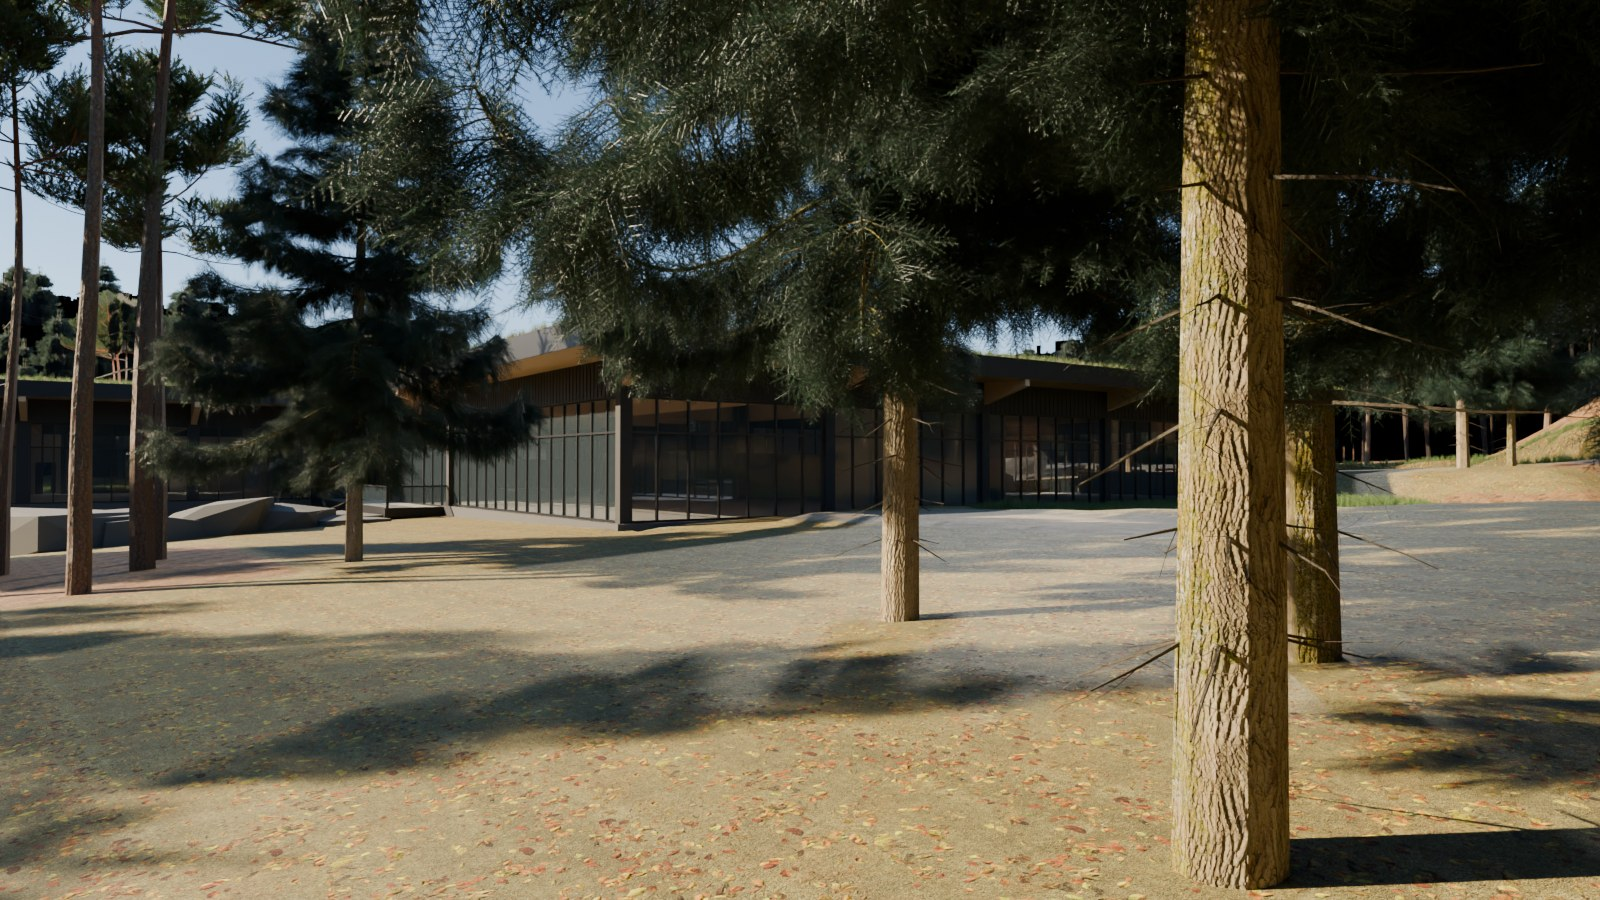
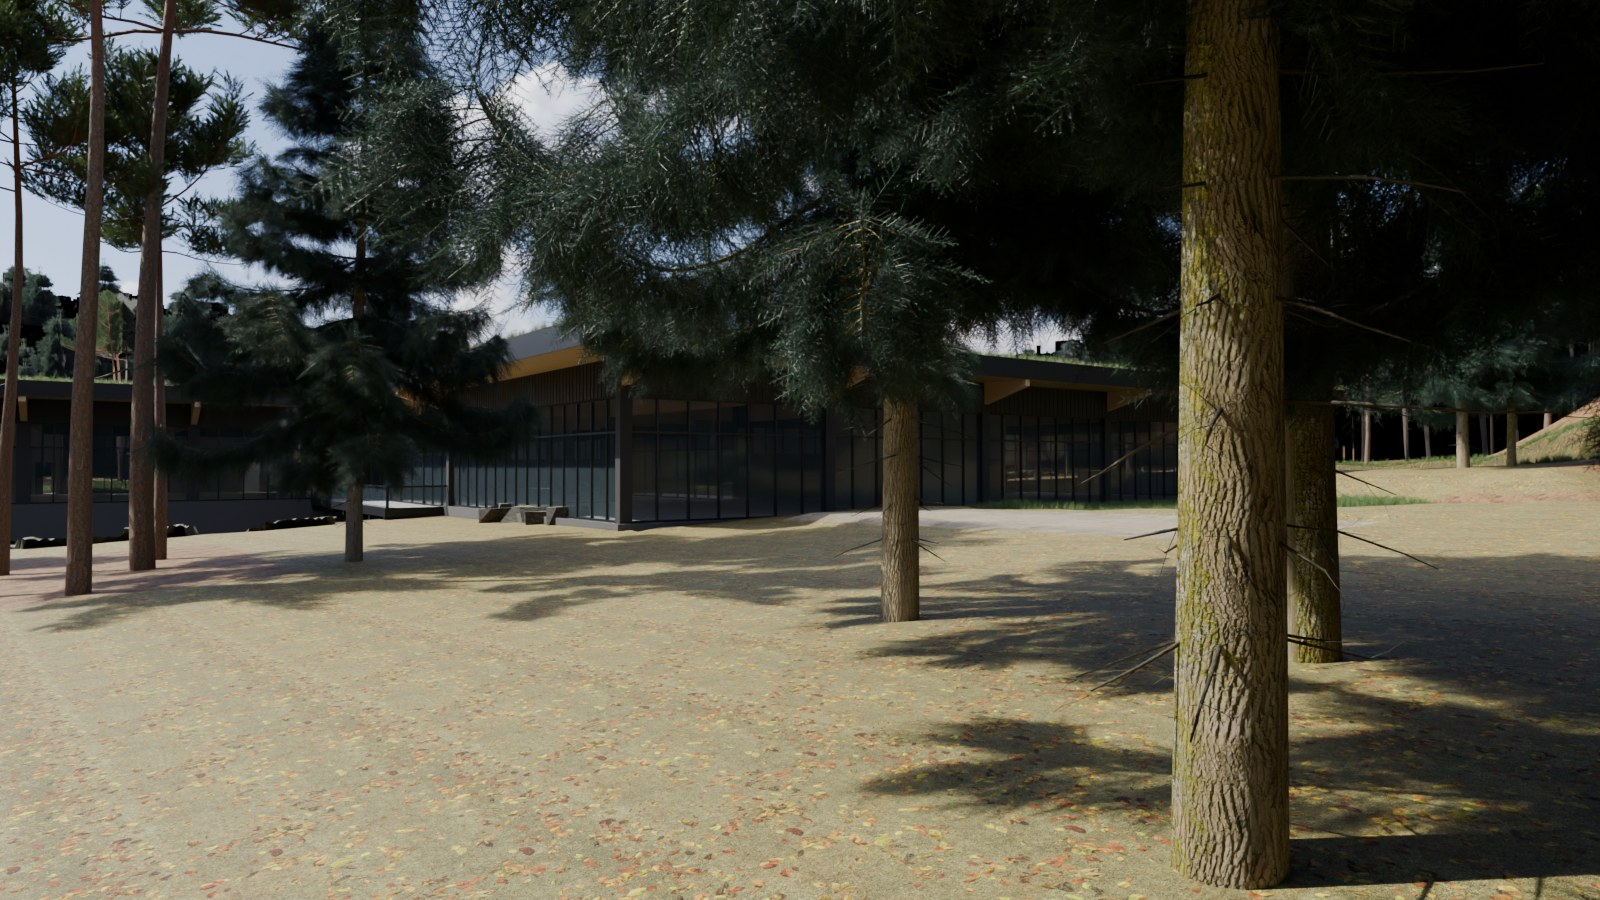
Default sky: Poly Haven kloofendal_48d_partly_cloudy_puresky HDRI (CC0, cached outside git), its sun rotated to the south-west, midday exposure
Prompt: add a nice semi cloudly hdri pleae as the default still sunny mid day and nice
Prompt-Time: 2026-10-11T21:35:34.066Z
Session-Id: c2657e98-4c3e-42ed-8843-4cbcc10033d7

diff --git a/construction/bl_common.py b/construction/bl_common.py
@@ -161,7 +161,46 @@ def cliff_rocks(H, rock, x0, y0, exclude, rng, coll=None):
     return ob
 
 
+HDRI_DEFAULT = "kloofendal_48d_partly_cloudy_puresky_4k.hdr"  # assets/manifest.json: partly cloudy, sunny midday (CC0)
+
+
+def hdri_world(scene, fname=HDRI_DEFAULT, sun_azimuth_deg=220.0, strength=1.0):
+    """World = the HDRI (its own sun lights the scene: no lamp). The sky is rotated so its sun comes from `sun_azimuth_deg`
+    (compass degrees, 220 = south-west, the design's light). Returns False if the HDRI isn't cached (run tools/assets.py)."""
+    from pathlib import Path
+    path = Path.home() / ".cache" / "the_gym" / "hdris" / "polyhaven" / fname
+    if not path.exists():
+        return False
+    img = bpy.data.images.load(str(path), check_existing=True)
+    w_, h_ = img.size
+    px = np.empty(w_ * h_ * 4, np.float32); img.pixels.foreach_get(px)
+    lum = px.reshape(h_, w_, 4)[..., :3].sum(-1)
+    vrow, ucol = np.unravel_index(int(np.argmax(lum)), lum.shape)
+    u, v = (ucol + 0.5) / w_, (vrow + 0.5) / h_
+    have = (0.5 - u) * 2 * math.pi  # Cycles equirect: u = 0.5 - atan2(dy, dx) / 2pi
+    az = math.radians(sun_azimuth_deg)
+    want = math.atan2(math.cos(az), math.sin(az))  # compass -> math angle (x east, y north)
+    w = bpy.data.worlds.new("hdri_sky"); scene.world = w; w.use_nodes = True
+    N, L = w.node_tree.nodes, w.node_tree.links
+    tc = N.new("ShaderNodeTexCoord"); mp = N.new("ShaderNodeMapping"); mp.inputs["Rotation"].default_value = (0, 0, have - want)
+    env = N.new("ShaderNodeTexEnvironment"); env.image = img
+    L.new(tc.outputs["Generated"], mp.inputs["Vector"]); L.new(mp.outputs[0], env.inputs["Vector"])
+    L.new(env.outputs["Color"], N["Background"].inputs["Color"]); N["Background"].inputs["Strength"].default_value = strength
+    scene["sun_elevation_deg"] = round(math.degrees((v - 0.5) * math.pi), 1)
+    return True
+
+
 def world_and_render(scene):
+    if hdri_world(scene):
+        for eng in ("BLENDER_EEVEE", "BLENDER_EEVEE_NEXT"):
+            try:
+                scene.render.engine = eng; break
+            except TypeError:
+                continue
+        scene.render.resolution_x, scene.render.resolution_y = 1600, 900
+        scene.view_settings.view_transform = "AgX"; scene.view_settings.look = "AgX - Base Contrast"
+        scene.view_settings.exposure = 1.3  # real midday HDRI: a bright Nordic summer day
+        return
     sun = bpy.data.objects.new("sun", bpy.data.lights.new("sun", "SUN"))
     sun.data.energy = 4.0; sun.data.angle = math.radians(2); sun.rotation_euler = (math.radians(55), 0, math.radians(-140))
     scene.collection.objects.link(sun)

diff --git a/tools/assets.py b/tools/assets.py
@@ -3,6 +3,7 @@ Nothing downloaded is committed: the repo is public and every model is generated
 
 python3 tools/assets.py            fetch whatever is missing
 Textures land in ~/.cache/the_gym/textures/<source>/<id>/<map>.<ext>  (map = diff, nor_gl, rough, disp, ao, arm)
+HDRIs land in ~/.cache/the_gym/hdris/<source>/<id>_<res>.hdr
 """
 import json
 import sys
@@ -35,6 +36,15 @@ def polyhaven(tid, res):
     return got
 
 
+def polyhaven_hdri(hid, res):
+    dst = CACHE / "hdris" / "polyhaven" / f"{hid}_{res}.hdr"
+    if not dst.exists():
+        files = json.loads(get(f"https://api.polyhaven.com/files/{hid}"))
+        dst.parent.mkdir(parents=True, exist_ok=True)
+        dst.write_bytes(get(files["hdri"][res]["hdr"]["url"]))
+    return dst
+
+
 def texture_dir(tid, source="polyhaven"):
     return CACHE / "textures" / source / tid
 
@@ -44,4 +54,7 @@ if __name__ == "__main__":
     for t in man["textures"]:
         if t["source"] == "polyhaven":
             print(t["id"], polyhaven(t["id"], t["res"]))
+    for h in man.get("hdris", []):
+        if h["source"] == "polyhaven":
+            print(h["id"], polyhaven_hdri(h["id"], h["res"]))
     sys.exit(0)
